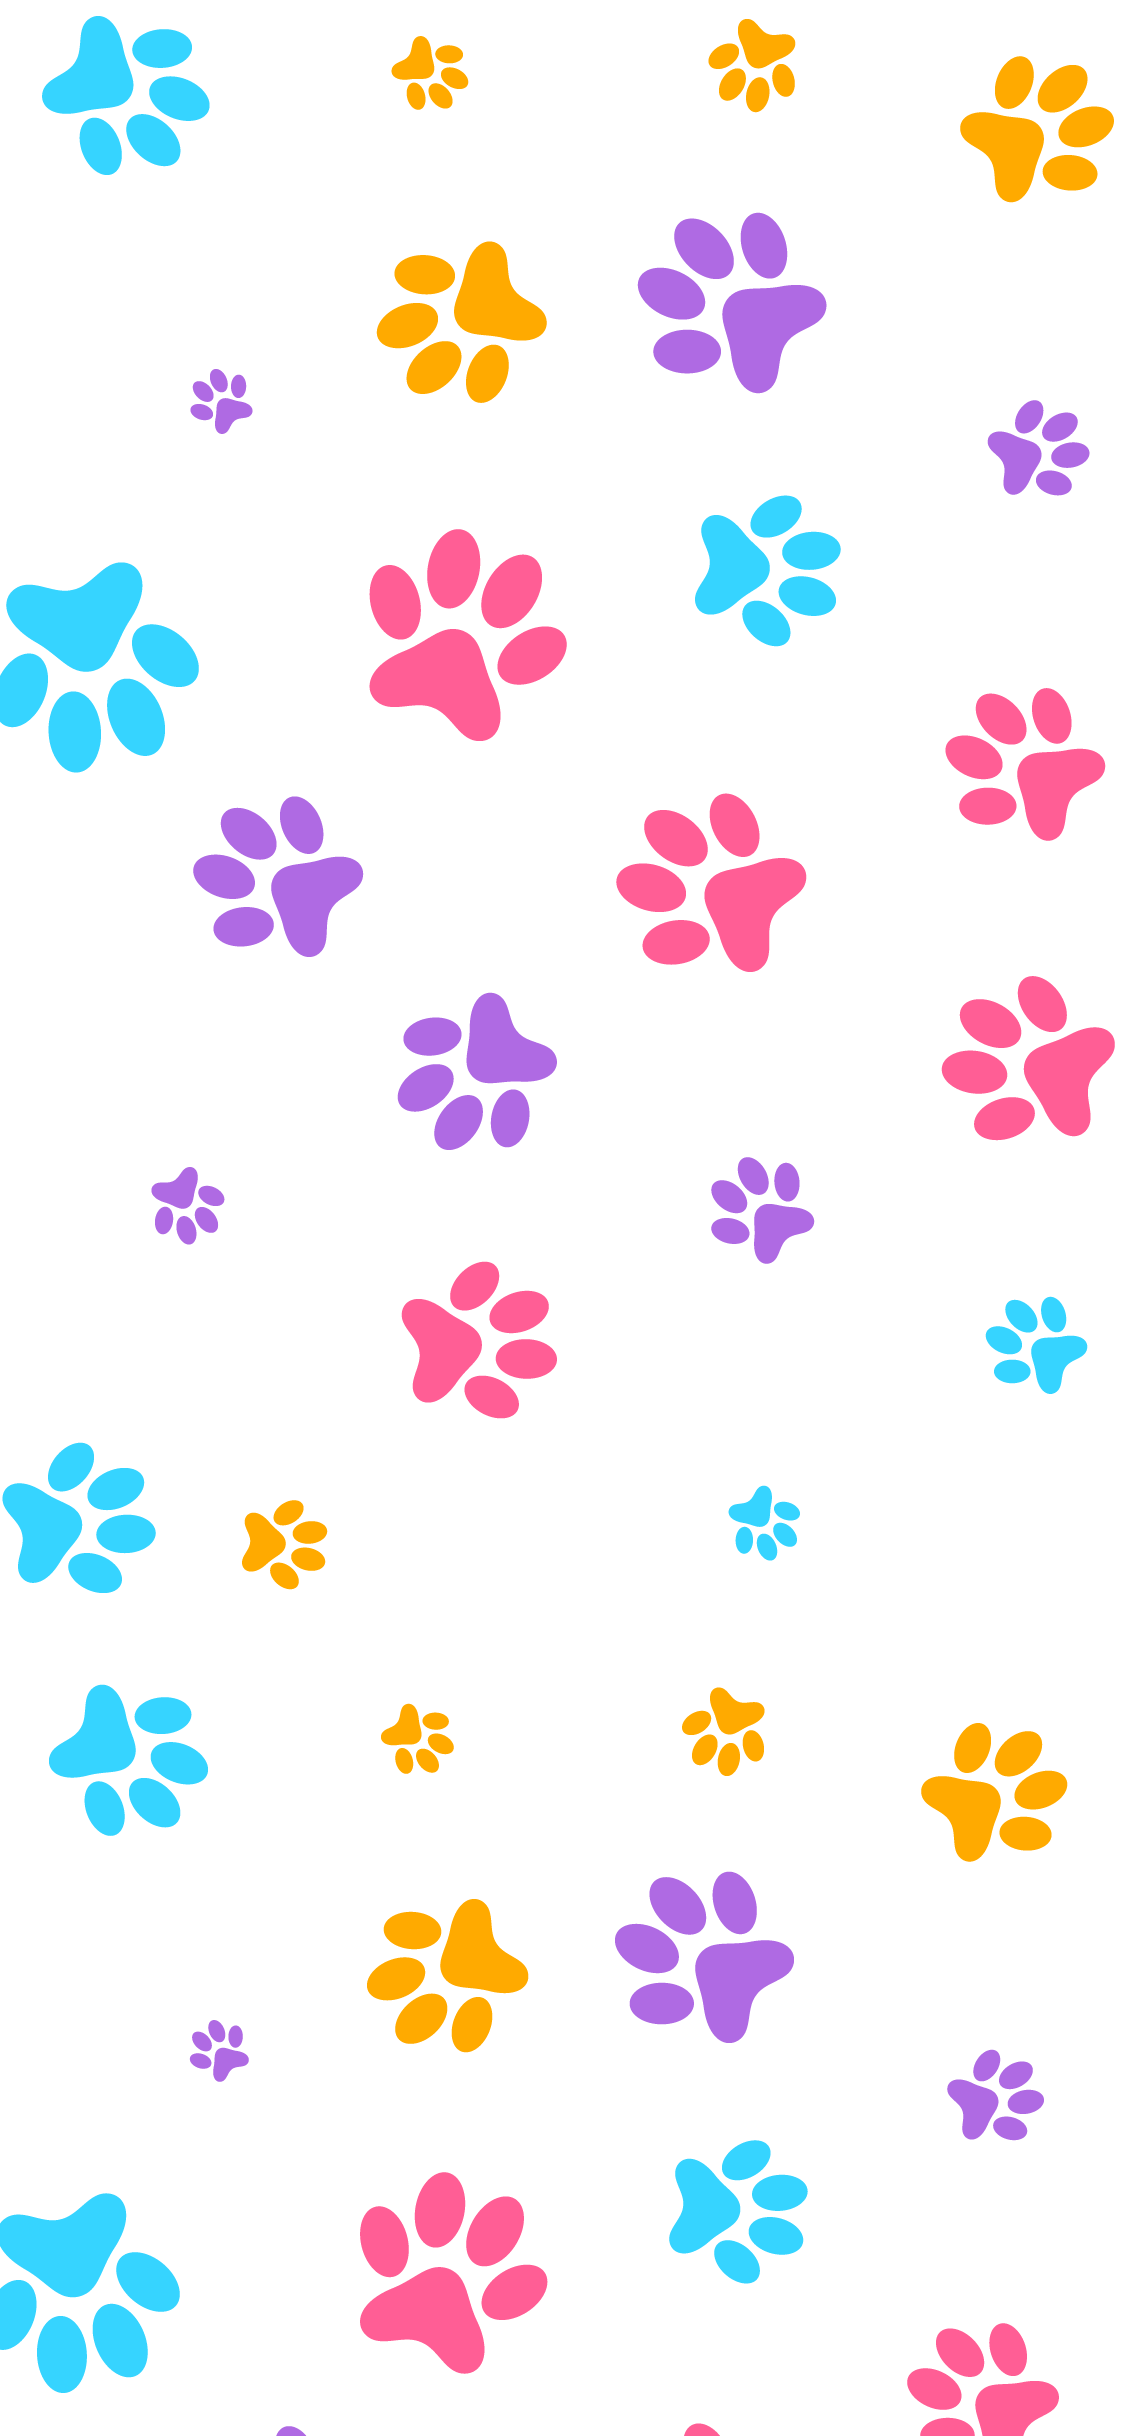
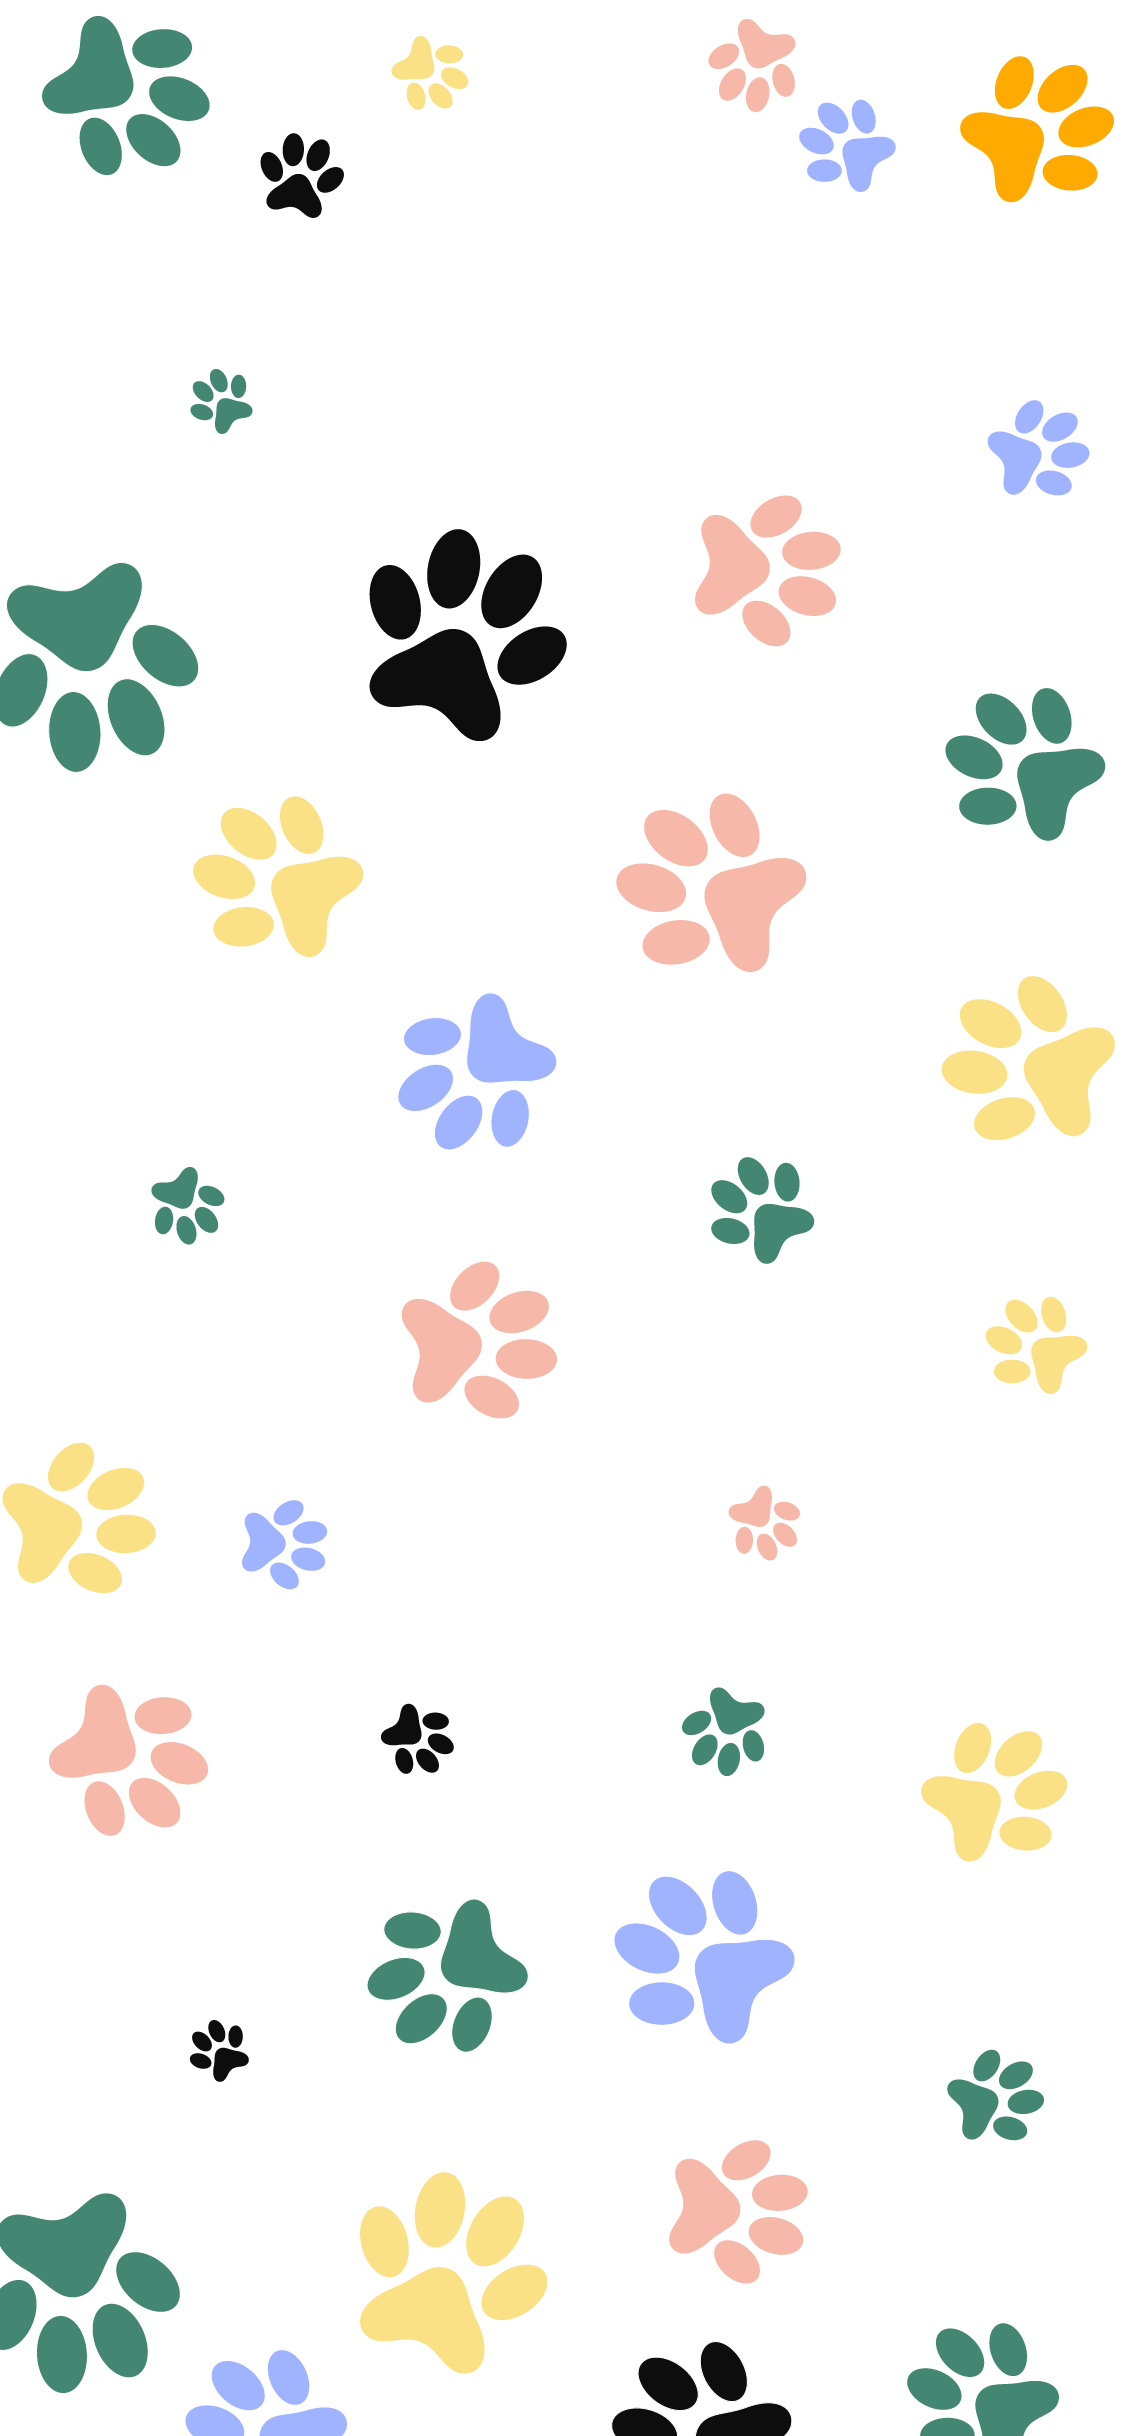
✨feat(auth): enhance authentication screen with background image and safe area layout

diff --git a/frontend/YowPet/src/app/(auth)/auth.jsx b/frontend/YowPet/src/app/(auth)/auth.jsx
@@ -1,5 +1,4 @@
-import { View } from 'react-native';
-import { ScreenContainer } from '@components/global/ScreenContainer';
+import { ImageBackground, SafeAreaView, View } from 'react-native';
 import { CustomHeader } from '@components/auth/CustomHeader';
 import { AuthTabs } from '@components/auth/AuthTabs';
 import { SocialButtons } from '@components/auth/SocialButtons';
@@ -20,23 +19,31 @@ export default function Auth() {
   } = useAuthForm();
 
   return (
-    <ScreenContainer style={styles.auth.screenContainer}>
-      <View style={styles.auth.container}>
-        <CustomHeader />
-        <View style={styles.auth.authContainer}>
-          <AuthTabs isLogin={isLogin} onModeChange={handleModeChange} />
-          <FormikAuthForm
-            isLogin={isLogin}
-            initialValues={initialValues}
-            validationSchema={validationSchema}
-            handleSubmit={handleSubmit}
-            toggleVisibility={toggleVisibility}
-            handleForgotPassword={handleForgotPassword}
-            fadeAnim={fadeAnim}
-          />
-          <SocialButtons />
-        </View>
-      </View>
-    </ScreenContainer>
+    <View style={{ flex: 1 }}>
+      <ImageBackground
+        source={require('../../assets/ilustrationYowpetV1/Ilustration_paws.png')}
+        style={{ flex: 1 }}
+        resizeMode="cover"
+      >
+        <SafeAreaView style={{ flex: 1 }}>
+          <View style={styles.auth.container}>
+            <CustomHeader />
+            <View style={styles.auth.authContainer}>
+              <AuthTabs isLogin={isLogin} onModeChange={handleModeChange} />
+              <FormikAuthForm
+                isLogin={isLogin}
+                initialValues={initialValues}
+                validationSchema={validationSchema}
+                handleSubmit={handleSubmit}
+                toggleVisibility={toggleVisibility}
+                handleForgotPassword={handleForgotPassword}
+                fadeAnim={fadeAnim}
+              />
+              <SocialButtons />
+            </View>
+          </View>
+        </SafeAreaView>
+      </ImageBackground>
+    </View>
   );
 }

diff --git a/frontend/YowPet/src/components/auth/styles.js b/frontend/YowPet/src/components/auth/styles.js
@@ -68,6 +68,13 @@ export const styles = {
       shadowRadius: 6,
       elevation: 4,
     },
+    backgroundImage: {
+      position: 'absolute',
+      width: '100%',
+      height: '100%',
+      resizeMode: 'cover', // Opciones: 'cover', 'contain', 'stretch'
+      opacity: 0.8, // Ajusta según necesites
+    },
   }),
 
   form: StyleSheet.create({
